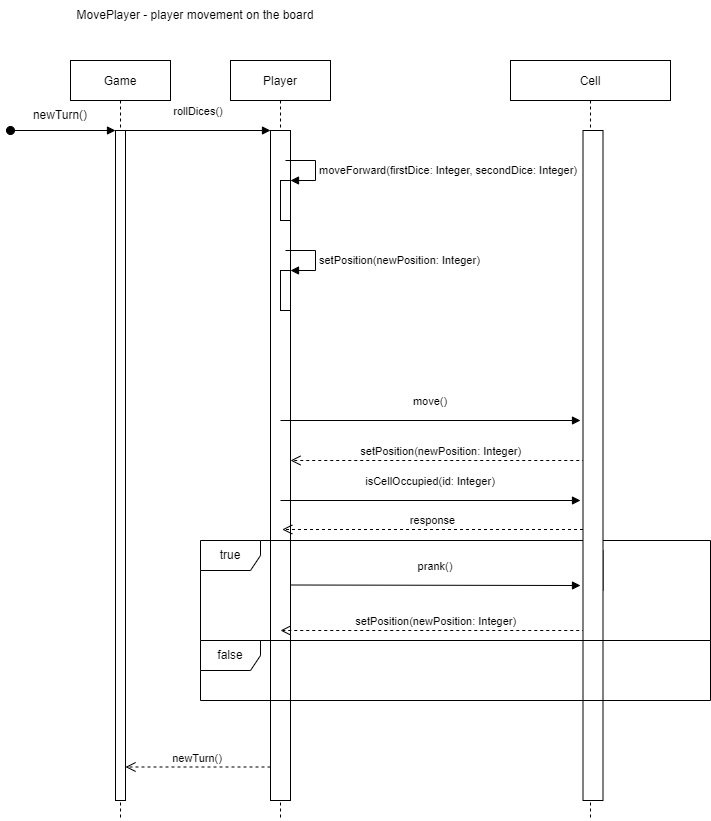
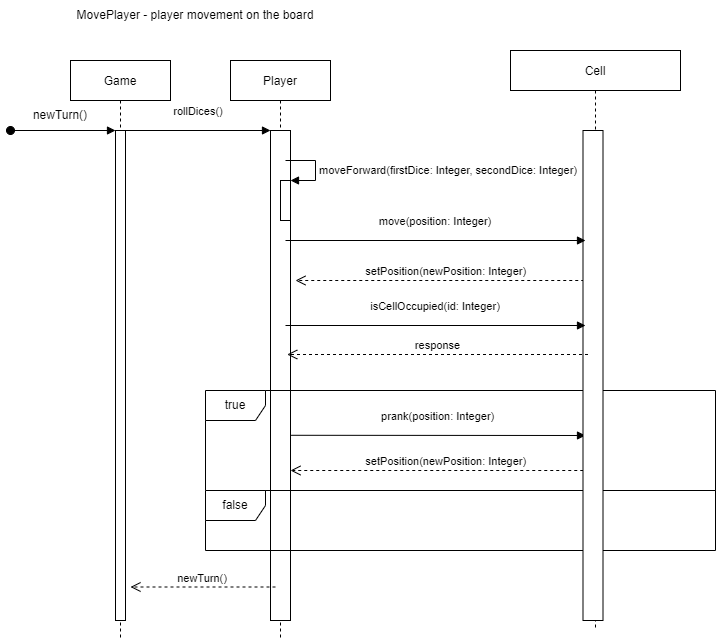
Updated code

diff --git a/src/main/java/org/thegoosegame/game/Player.java b/src/main/java/org/thegoosegame/game/Player.java
@@ -41,9 +41,7 @@ public class Player {
         newPosition = moveForward(firstDice, secondDice);
 
         if(newPosition>63)
-            newPosition = bounce(newPosition);
-
-        setPosition(newPosition);
+            position = newPosition;
 
         Player[] players = getGame().getCellOccupants(position);
         Cell[] cells = getGame().getCells();
